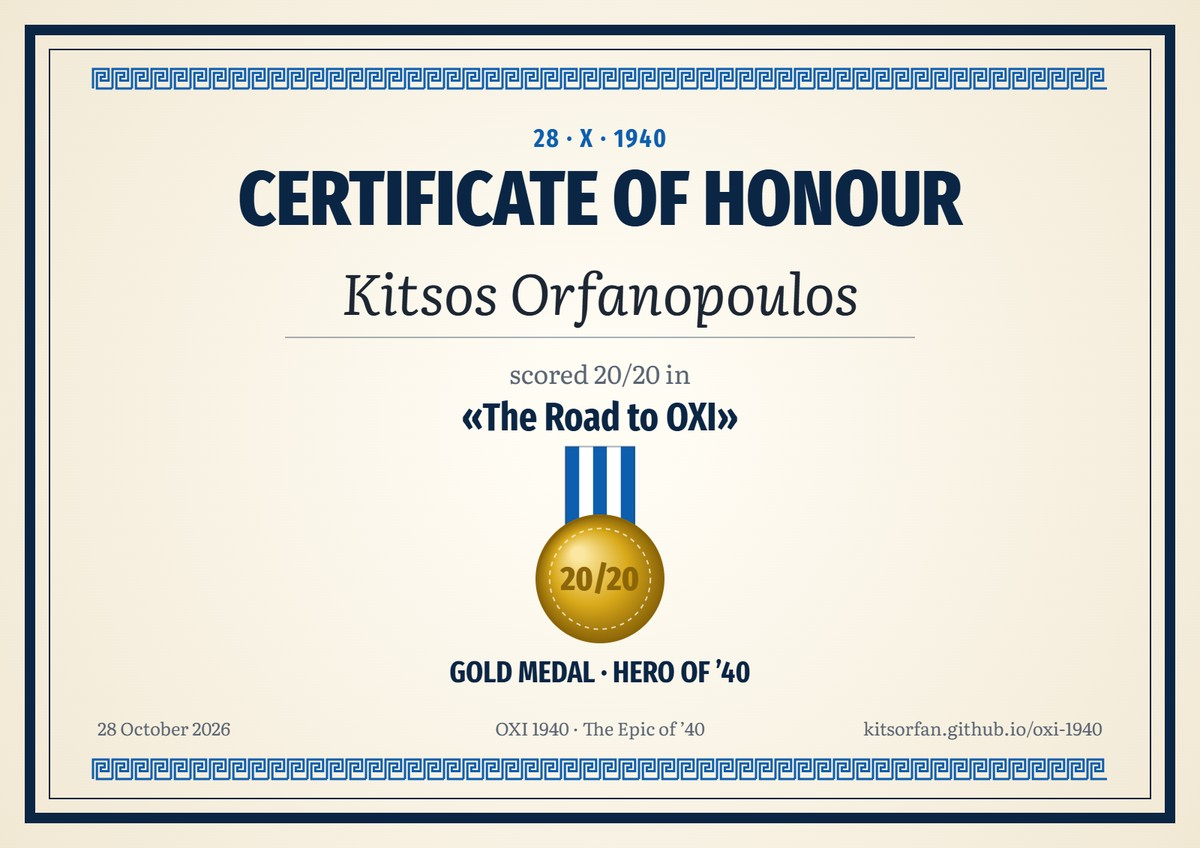
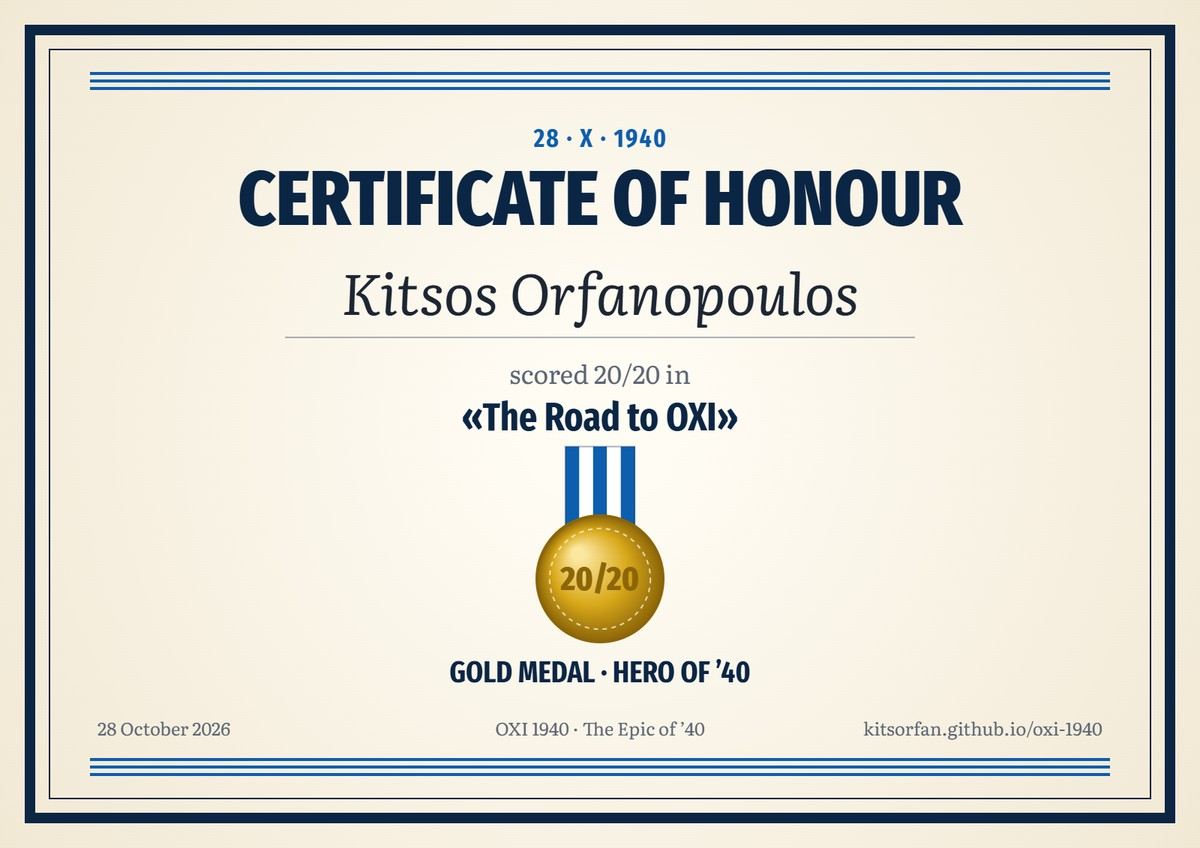
fix(certificate): replace the meander bands with flag stripes

Changed region(s): [[0.0617, 0.0613, 0.925, 0.1226], [0.0617, 0.8892, 0.925, 0.9198]]

diff --git a/src/game/certificate.ts b/src/game/certificate.ts
@@ -27,25 +27,10 @@ const MEDAL_KEYS = {
   bronze: ['medalBronze', 'rankBronze'],
 } as const;
 
-/** One module of a Greek key (meander) band, 10×10 units. */
-function meander(ctx: CanvasRenderingContext2D, x: number, y: number, u: number) {
-  const p = (dx: number, dy: number) => [x + dx * u, y + dy * u] as const;
-  const pts = [p(0, 10), p(0, 0), p(8, 0), p(8, 6), p(4, 6), p(4, 4), p(6, 4), p(6, 2), p(2, 2), p(2, 10), p(10, 10)];
-  ctx.moveTo(...pts[0]!);
-  for (const pt of pts.slice(1)) ctx.lineTo(...pt);
-}
-
-function meanderBand(ctx: CanvasRenderingContext2D, y: number) {
-  const u = 2.6;
-  const size = 10 * u;
-  const count = Math.floor((W - 240) / size);
-  const start = (W - count * size) / 2;
-  ctx.beginPath();
-  for (let i = 0; i < count; i++) meander(ctx, start + i * size, y, u);
-  ctx.strokeStyle = BLUE;
-  ctx.lineWidth = 3;
-  ctx.lineJoin = 'miter';
-  ctx.stroke();
+/** Three thin blue stripes, like those of the flag. */
+function stripeBand(ctx: CanvasRenderingContext2D, y: number) {
+  ctx.fillStyle = BLUE;
+  for (let i = 0; i < 3; i++) ctx.fillRect(120, y + i * 10, W - 240, 4);
 }
 
 function drawMedal(ctx: CanvasRenderingContext2D, cx: number, cy: number, r: number, medal: Medal, label: string) {
@@ -121,8 +106,8 @@ export async function renderCertificate(d: CertificateData): Promise<Blob> {
   ctx.strokeRect(40, 40, W - 80, H - 80);
   ctx.lineWidth = 2;
   ctx.strokeRect(66, 66, W - 132, H - 132);
-  meanderBand(ctx, 92);
-  meanderBand(ctx, H - 92 - 26);
+  stripeBand(ctx, 96);
+  stripeBand(ctx, H - 96 - 24);
 
   ctx.textAlign = 'center';
   ctx.textBaseline = 'alphabetic';
